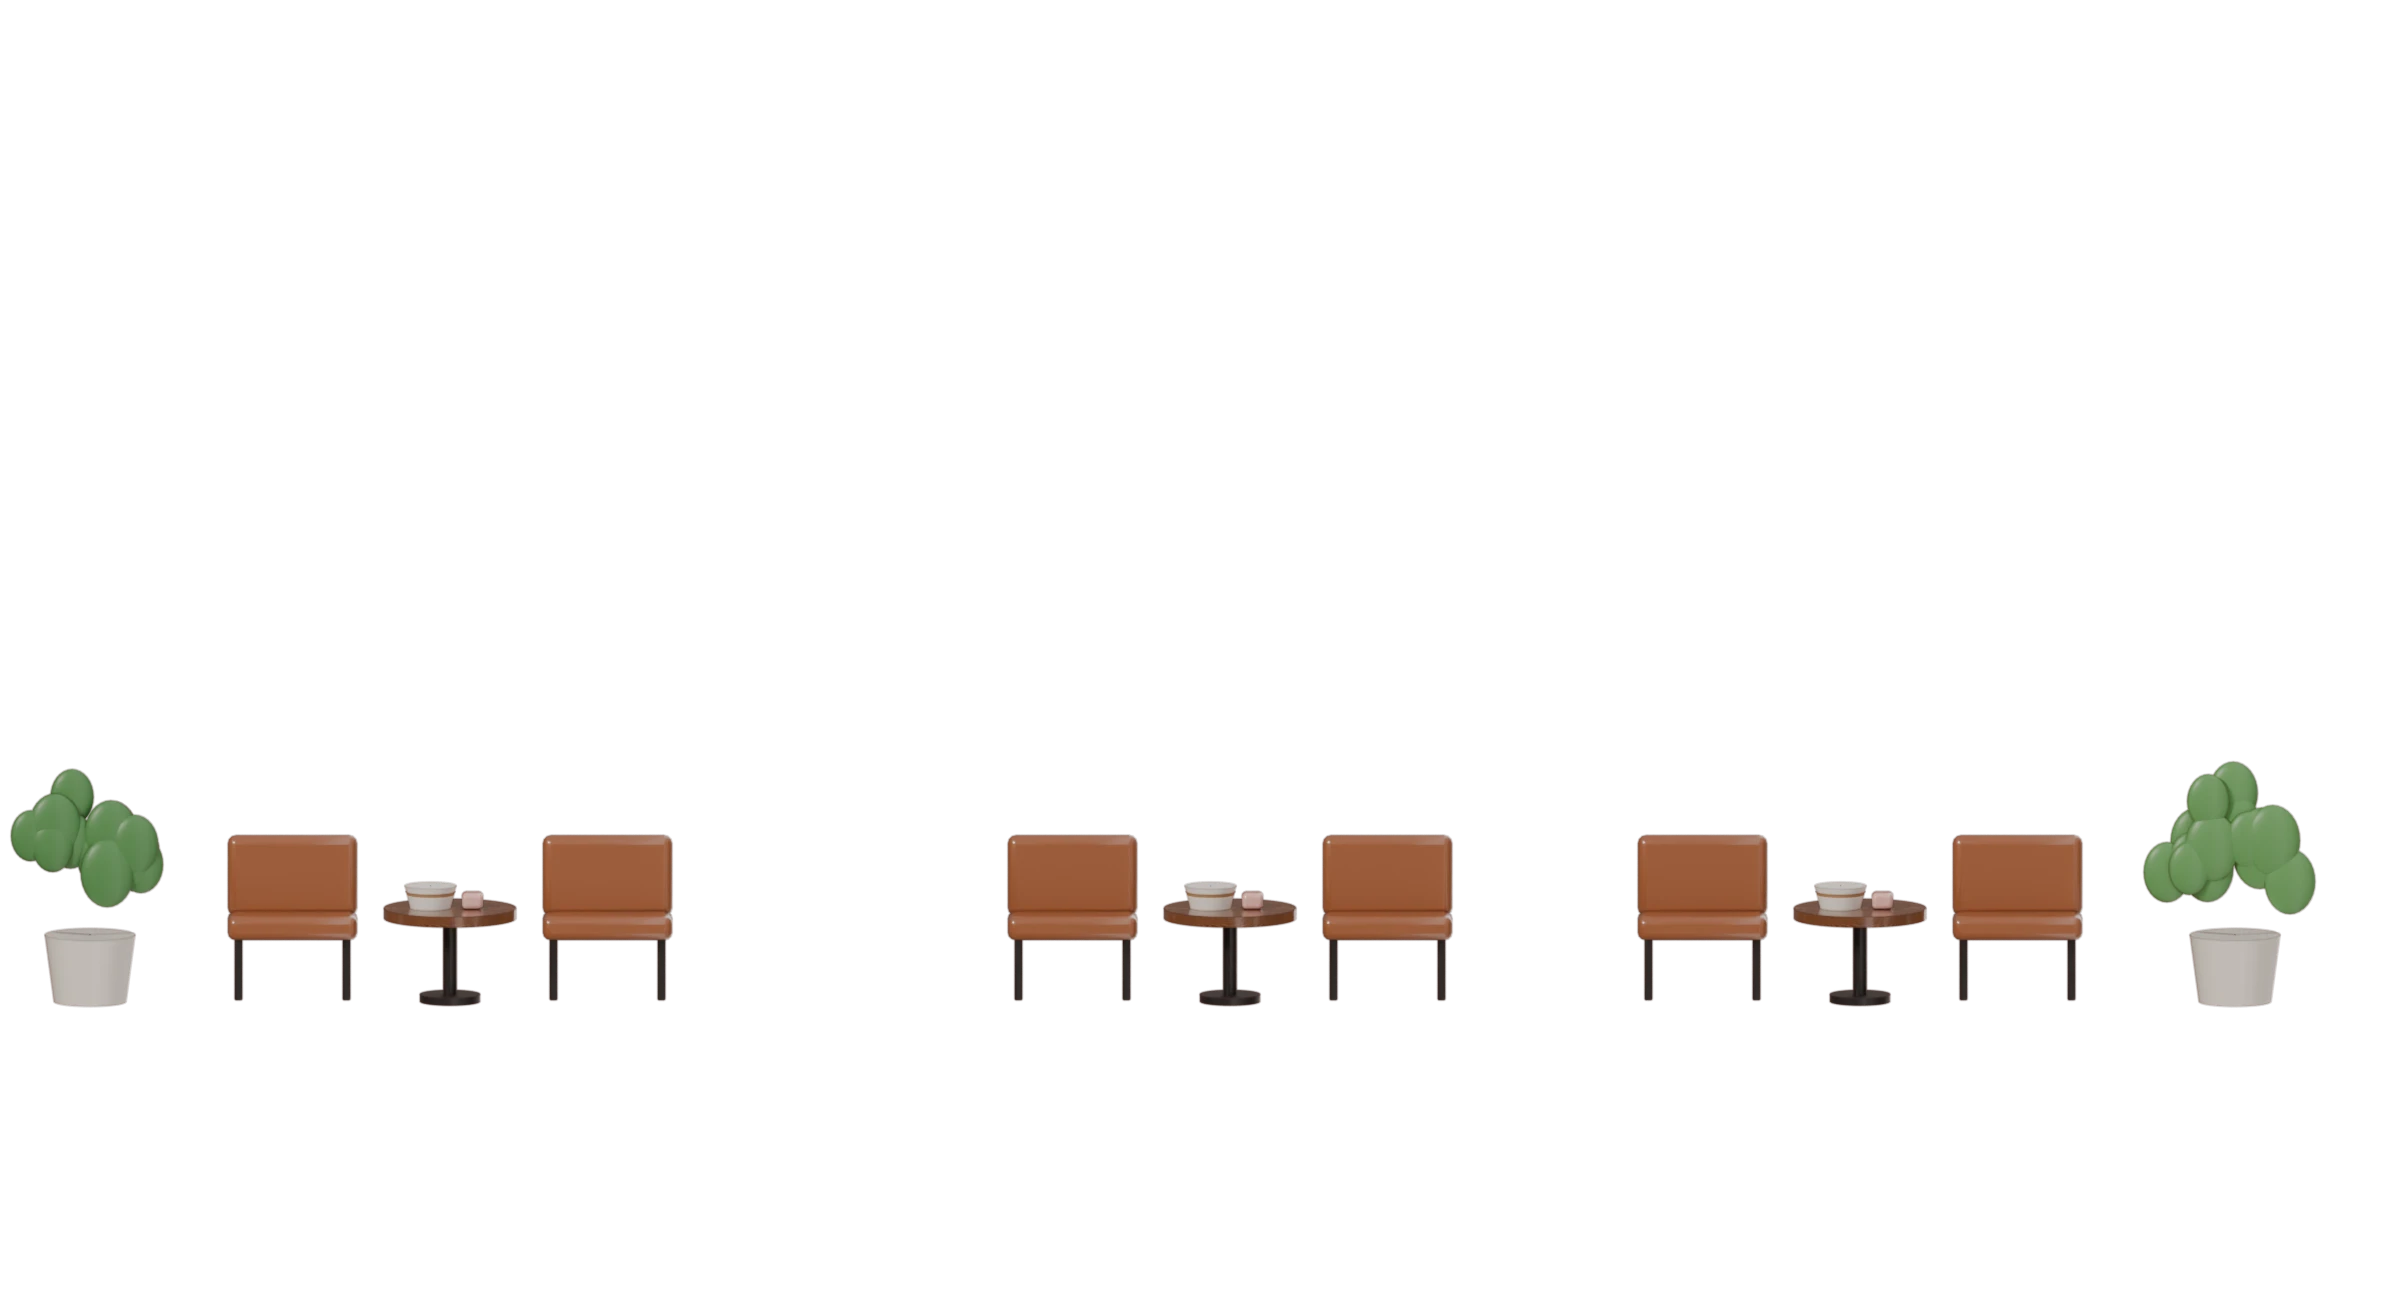
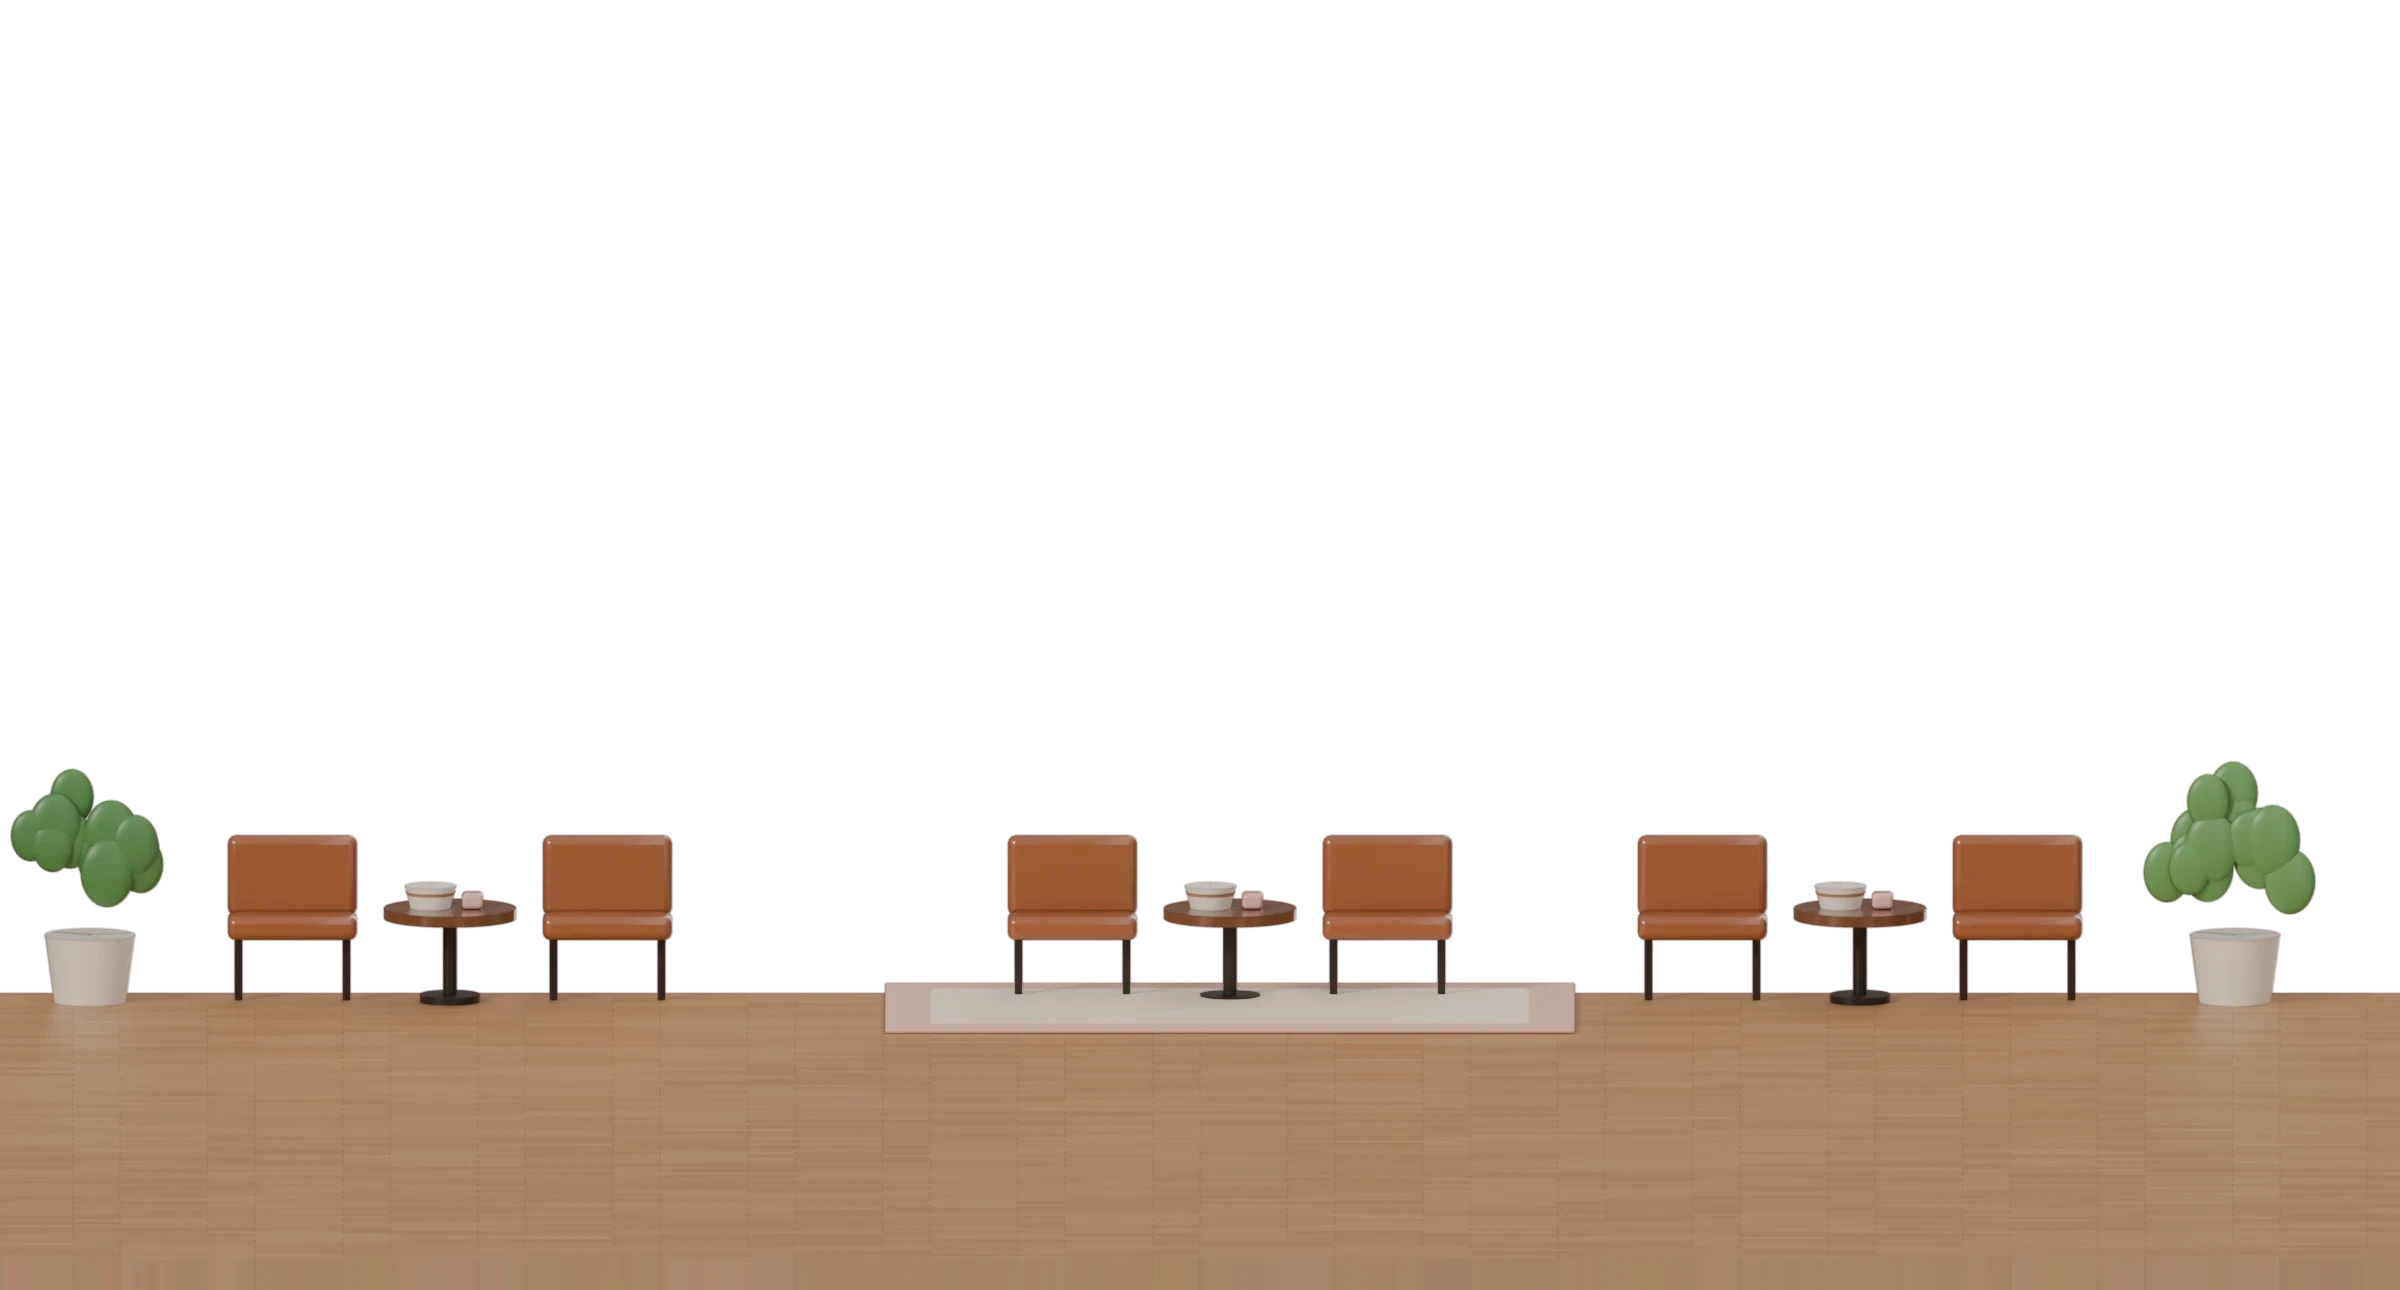
Waiting-area background: warm plaster, sage wainscot, ceiling beam, pastel street in the windows, oak floor and rug under the seating

Changed region(s): [[0.0, 0.7132, 1.0, 1.0]]

diff --git a/css/theme.css b/css/theme.css
@@ -101,8 +101,8 @@
 .overlay.menu { background: #3a2a22; background-image: none; overflow: hidden auto; }
 .menu-bg { position: fixed; inset: 0; z-index: 0; pointer-events: none; overflow: hidden; }
 .menu-bg > div { position: absolute; inset: 0; }
-.mb-wall { background: url(../assets/cafe/wall.webp?v=40) center bottom / cover no-repeat; filter: blur(2px) brightness(.72) saturate(.9); transform: scale(1.04); }
-.mb-seat { background: url(../assets/cafe/seating.webp?v=40) center bottom / cover no-repeat; filter: blur(4px) brightness(.68); transform: scale(1.04); }
+.mb-wall { background: url(../assets/cafe/wall.webp?v=41) center bottom / cover no-repeat; filter: blur(2px) brightness(.72) saturate(.9); transform: scale(1.04); }
+.mb-seat { background: url(../assets/cafe/seating.webp?v=41) center bottom / cover no-repeat; filter: blur(4px) brightness(.68); transform: scale(1.04); }
 .menu-bg::after {
   content: ""; position: absolute; inset: 0;
   background: radial-gradient(ellipse 60% 55% at 50% 45%, rgba(255,200,130,.18), transparent 70%), radial-gradient(ellipse at 50% 50%, transparent 45%, rgba(30,15,8,.6) 100%);

diff --git a/css/scene.css b/css/scene.css
@@ -7,7 +7,7 @@
 .scene .talk { z-index: 3; padding-top: 64px; }
 
 /* depth (issue #9): the far wall is softest, the seating a little blurred, a leafy plant right in front is out of focus */
-.layer.far { background: url(../assets/cafe/wall.webp?v=40) center bottom / cover no-repeat; filter: blur(.5px); }
+.layer.far { background: url(../assets/cafe/wall.webp?v=41) center bottom / cover no-repeat; filter: blur(.5px); }
 /* warm pools of light the bulbs throw on the wall, and a little haze in the air further back */
 .layer.bulbs {
   background:
@@ -29,7 +29,7 @@
     radial-gradient(ellipse 28% 18% at 40% 78%, #5f9c58 60%, transparent 62%);
   filter: blur(7px); opacity: .9;
 }
-.layer.seating { background: url(../assets/cafe/seating.webp?v=40) center bottom / cover no-repeat; filter: blur(1.8px); }
+.layer.seating { background: url(../assets/cafe/seating.webp?v=41) center bottom / cover no-repeat; filter: blur(1.8px); }
 
 /* window daylight and a warm vignette */
 .layer.sun {

diff --git a/sw.js b/sw.js
@@ -2,7 +2,7 @@
    too. The page itself is fetched from the network first (so a new version shows up at once) and from the cache when
    offline; everything else comes from the cache and is fetched only the first time. Bump VERSION with every release
    (together with the ?v= on the links in index.html): the old cache is then dropped. */
-const VERSION = 'cafe-cb-41';
+const VERSION = 'cafe-cb-42';
 const CORE = [
   './', 'index.html', 'manifest.webmanifest', 'style.css?v=41',
   'css/scene.css?v=41', 'css/fx.css?v=41', 'css/views.css?v=41', 'css/bar.css?v=41', 'css/theme.css?v=41', 'css/helper.css?v=41', 'css/stage.css?v=41', 'css/intro.css?v=41',

diff --git a/tools/blender/cafe.py b/tools/blender/cafe.py
@@ -333,19 +333,39 @@ def wall():
     sc = stage(line=1.5); lights(key=2.2)
     sc.world.node_tree.nodes['Background'].inputs[1].default_value = 1.2
     W, H = 160, 86
-    conc = tex_mat('concrete', 'noisecol', c1='#b8afa3', c2='#cdc5ba', nscale=1.2, scale=(0.3, 0.3, 0.3), rough=0.85)
-    brick = tex_mat('bricks', 'brick', c1='#b8623f', c2='#a24e32', mortar='#d8c3a8', bs=1.0, bw=1.4, bh=0.55, ms=0.06, off=0.5,
+    # warm plaster above, sage painted panelling below, a walnut beam under the ceiling: lived-in, but soft and rounded
+    conc = tex_mat('plaster', 'noisecol', c1='#e3d3b8', c2='#efe2cb', nscale=1.2, scale=(0.3, 0.3, 0.3), rough=0.85)
+    brick = tex_mat('bricks', 'brick', c1='#c0694a', c2='#a8553a', mortar='#e2cfb4', bs=1.0, bw=1.4, bh=0.55, ms=0.06, off=0.5,
                     rot=(math.pi / 2, 0, 0), bump=0.9, rough=0.8)
     bx(W + 4, 1, H + 2, (W / 2, 2.6, -1), conc, bevel=0.01)
     for x0, x1 in ((0, 26), (136, 160)):
         bx(x1 - x0, 1.2, H + 2, ((x0 + x1) / 2, 2.0, -1), brick, bevel=0.01)
+    sage = col('sage', '#8fae96', rough=0.5, coat=0.3)
+    trim = col('trim', '#f1e6d2', rough=0.4, coat=0.3)
+    beam = col('beam', '#6a3f25', rough=0.35, coat=0.5, wood=True)
+    F = 19.0   # the floor line: the seating render stands its chairs on it (its z=0 lands here)
+    bx(W - 52, 1.0, 17.5, (80, 1.9, F), sage, bevel=0.2)              # wainscot panels
+    for xp in range(30, 134, 13):
+        bx(11.4, 0.3, 13.0, (xp + 6.5, 1.5, F + 2.2), trim, bevel=0.15)   # raised panel fields: cream frame, sage inset
+        bx(9.4, 0.3, 11.0, (xp + 6.5, 1.25, F + 3.2), sage, bevel=0.2)
+    bx(W - 50, 1.6, 1.3, (80, 1.5, F + 17.5), trim, bevel=0.3)        # chair rail
+    bx(W - 50, 1.6, 2.4, (80, 1.5, F), trim, bevel=0.3)               # skirting board
+    bx(W + 4, 3.4, 4.2, (W / 2, 1.2, H - 4.2), beam, bevel=0.5)       # ceiling beam
     for x0 in (32, 82):
-        xc, ww, z0, hh = x0 + 22, 44, 22, 52
+        xc, ww, z0, hh = x0 + 22, 44, 40, 40
         bx(ww, 0.4, hh, (xc, 1.6, z0), sky(), bevel=0.01)
-        for bxn, (bw, bh, bxo) in enumerate(((11, 28, -16), (14, 38, -4), (12, 22, 9), (9, 32, 17))):
-            bx(bw, 0.5, bh, (xc + bxo, 1.45, z0), col('bld' + str(bxn), ('#d9d2c8', '#cfc7bc', '#e3dcd2', '#c9c1b6')[bxn], rough=0.9), bevel=0.05)
-        ball(6.0, (xc + 12, 1.3, z0 + 30), col('tree', '#8fb08a', rough=0.8))
-        fr = col('frame', '#1f1a19', rough=0.45, coat=0.4)
+        # a pastel little street instead of grey boxes: houses with window dots, a tree on a trunk
+        for bxn, (bw, bh, bxo) in enumerate(((11, 22, -16), (14, 32, -4), (12, 17, 9), (9, 26, 17))):
+            hc = ('#f2c9b4', '#e9d9a8', '#c9dccb', '#f0b9b2')[bxn]
+            bx(bw, 0.5, bh, (xc + bxo, 1.45, z0), col('bld' + str(bxn), hc, rough=0.9), bevel=0.15)
+            wd = col('bldw' + str(bxn), '#8fb3c4', rough=0.3, coat=0.5)
+            for wi in range(int(bw // 4.5)):
+                for wj in range(int((bh - 6) // 6)):
+                    bx(2.2, 0.3, 3.0, (xc + bxo - bw / 2 + 3.0 + wi * 4.4, 1.2, z0 + 5.0 + wj * 6.2), wd, bevel=0.2)
+        cy(0.7, 7.5, (xc + 12, 1.1, z0), col('trunk', '#6a4a35', rough=0.8))
+        ball(5.2, (xc + 12, 1.0, z0 + 11.0), col('tree', '#8fb08a', rough=0.8))
+        ball(3.4, (xc + 8.4, 1.0, z0 + 8.4), col('tree2', '#a3c29a', rough=0.8))
+        fr = col('frame', '#2a2220', rough=0.45, coat=0.4)
         bx(ww + 1.6, 1.0, 1.0, (xc, 0.9, z0 - 0.5), fr, bevel=0.1); bx(ww + 1.6, 1.0, 1.0, (xc, 0.9, z0 + hh - 0.5), fr, bevel=0.1)
         for xx in (xc - ww / 2, xc, xc + ww / 2):
             bx(1.0 if xx != xc else 0.6, 1.0, hh, (xx, 0.9, z0), fr, bevel=0.1)
@@ -370,6 +390,11 @@ def seating():
     leather = col('leather', '#9a5a36', rough=0.35, coat=0.6)
     dark = col('legs', '#1f1a19', rough=0.4)
     top = col('tabletop', '#b7814f', rough=0.3, coat=0.5, wood=True)
+    # honey oak plank floor under everything, so chairs and tables sit on something and cast soft contact shadows
+    planks = tex_mat('floor', 'brick', c1='#c99562', c2='#b98450', mortar='#8f5f38', bs=1.0, bw=9.0, bh=1.4, ms=0.03, off=0.35, bump=0.3, rough=0.4)
+    bx(W + 8, 600, 1.0, (W / 2, -296, -1.0), planks, bevel=0.02)
+    bx(46, 22, 0.35, (82, -4.5, 0.0), col('rug', '#e8b8a8', rough=0.9), bevel=0.15)
+    bx(40, 17, 0.4, (82, -4.5, 0.0), col('rug2', '#f4e3cf', rough=0.9), bevel=0.15)
 
     def table(x, y):
         cy(0.45, 5.6, (x, y, 0), dark); cy(2.0, 0.5, (x, y, 0), dark)
